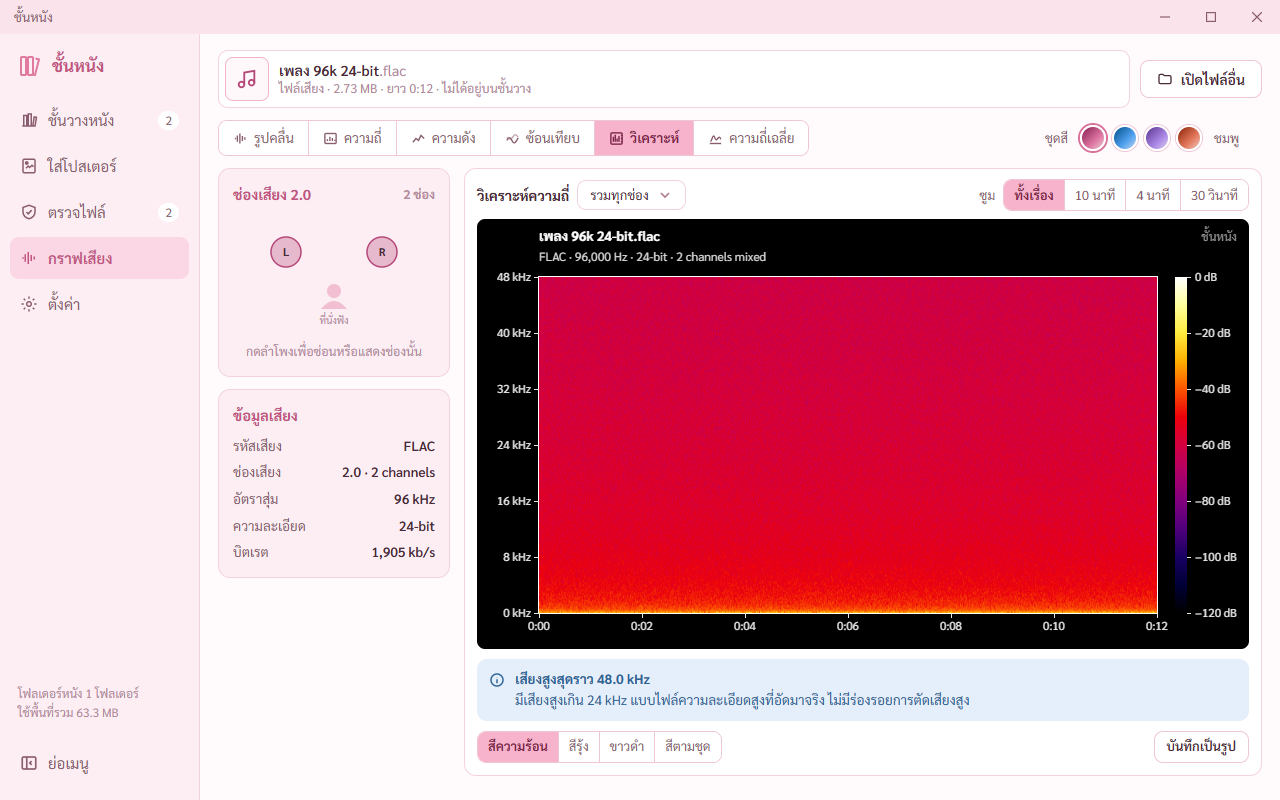
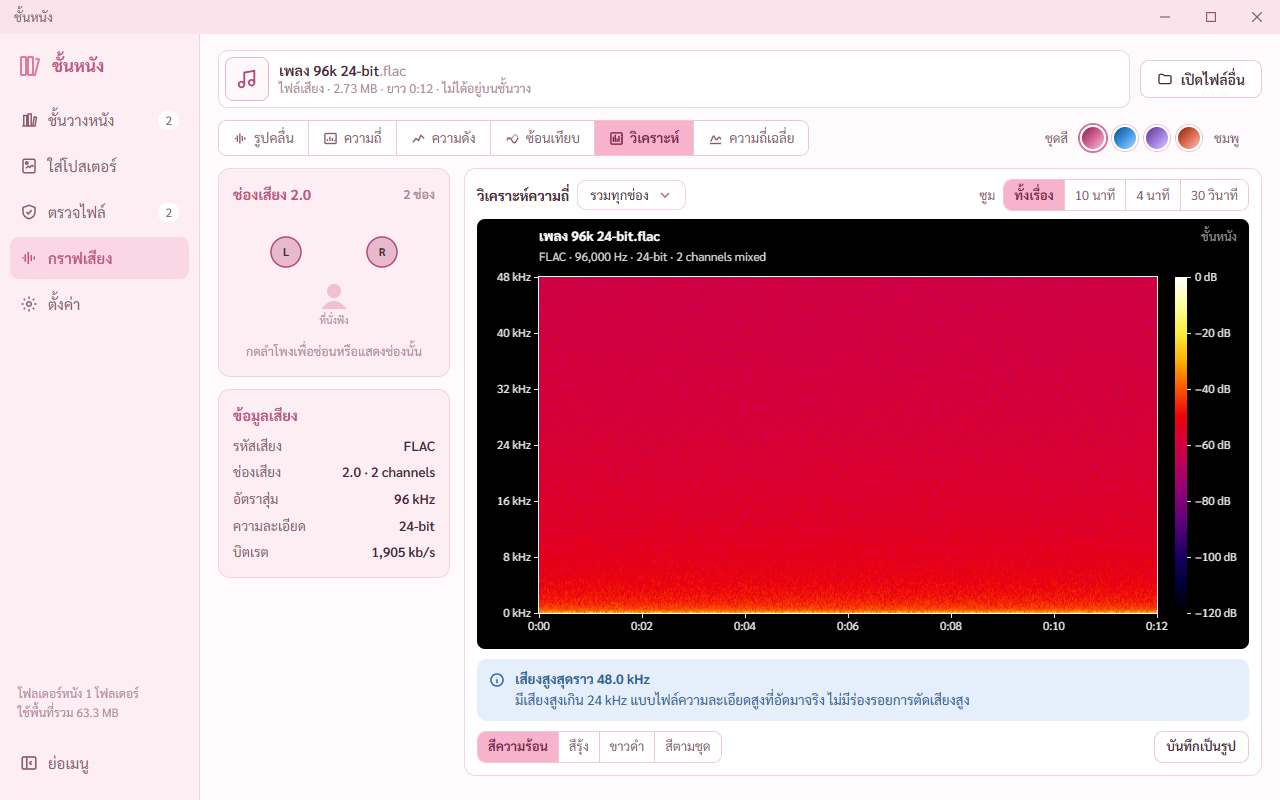
หน้ากราฟเสียง: เส้นตารางของความถี่เฉลี่ยทับบนพื้นสีแบบ Audacity เส้นที่พาดผ่านพื้นสีเป็นขาวโปร่ง อ่อนกว่าเส้นบนพื้นขาว
เป้าหมาย
--------
- พี่กันทักหลัง 831e951 *"ของ audacity เส้นตารางมันจะอยู่หน้าสุดนะ เอางี้ใหม่ เอาเส้นตารางที่พาดผ่านสีจะอ่อนกว่าเส้นตารางพื้นหลังที่อยู่ฉากขาว"* พร้อมภาพกราฟความถี่เฉลี่ยของโปรแกรม
- ปัญหาที่พี่กันเห็น พื้นสีใต้เส้นกราฟทับเส้นตาราง ในพื้นสีมองไม่เห็นเส้นตารางเลย
- รอบนี้ไม่แตะ แบบอื่นของหน้ากราฟ · สีพื้น · ช่วง dB

ที่ทำ
----

[1] เส้นตารางทับพื้นสี — src/pages/GraphPage.tsx (+15 −5) PsdView
-----------------------------------------------------------------
เดิม       วาดเส้นตารางก่อน แล้วระบายพื้นสีทับ · ในพื้นสีไม่มีเส้นตาราง
ใหม่       เส้นตารางบนพื้นขาวคงเดิม (ชมพูเทา) · เส้นเดียวกันวาดซ้ำเฉพาะในพื้นสี เป็นขาวโปร่ง เส้นหลักความทึบ 0.34 เส้นตัวคั่น 0.18 อ่อนกว่าเส้นบนพื้นขาวตามที่พี่กันขอ
เหตุผล     แบบ Audacity ที่เส้นตารางอยู่หน้าสุด ปรับให้เข้ากับธีม
รายละเอียด - ตอนวาดเส้นตาราง จดทุกเส้นลงรายการ gl (ตำแหน่งกับเป็นเส้นหลักไหม)
           - พื้นสีเก็บเป็น Path2D ตัวเดียว ใช้ทั้งระบายและเป็นขอบตัด (clip) ตอนวาดเส้นซ้ำ เส้นขาวจึงอยู่แค่ในพื้นสี ไม่ล้นไปพื้นขาว
           - ปิดสวิตช์เส้นตาราง ไม่วาดทั้งสองชั้น
           - เทียบซ้ายขวา (เส้นสองสี ไม่มีพื้น) ไม่เปลี่ยน
ตรวจ       ภาพ 32 เพลงจริง เห็นเส้นขาวโปร่งในพื้นสีครบทุกเส้น · ตัวเทสหน้ากราฟ 46 จาก 46

บั๊กที่แก้
--------
[B1] เส้นตารางหายในพื้นสีของกราฟความถี่เฉลี่ย
อาการ      ช่วงที่มีพื้นสี (ใต้เส้นกราฟ) ไม่มีเส้นตาราง อ่านค่าตรงนั้นยาก ต่างจาก Audacity
ต้นเหตุ    ลำดับการวาด เส้นตารางวาดก่อน พื้นสีทึบวาดทับ (831e951)
วิธีแก้    ข้อ [1]
[…]

Changed region(s): [[0.5312, 0.75, 0.9062, 0.7812], [0.4375, 0.75, 0.5, 0.7812]]

diff --git a/src/pages/GraphPage.tsx b/src/pages/GraphPage.tsx
@@ -924,15 +924,18 @@ function PsdView({ psd, names, psdCh, setPsdCh, psdLog, setPsdLog, psdSize, setP
     const ink = "#4a2b38", minor = "#efdde5", major = "#dcc0cc";
     // เส้นตารางแนวนอนทุก 6 dB (ถี่เกินไปเป็นทุก 12) · ตัวเลขทุกเส้น
     const step = PH * 6 / range >= 16 ? 6 : 12;
+    /** เส้นตารางทุกเส้น จดไว้วาดซ้ำทับพื้นสีด้วยสีขาวโปร่ง แบบ Audacity ที่เส้นตารางอยู่หน้าสุด
+        (พี่กัน *"ของ audacity เส้นตารางมันจะอยู่หน้าสุดนะ … เอาเส้นตารางที่พาดผ่านสีจะอ่อนกว่าเส้นตารางพื้นหลังที่อยู่ฉากขาว"*) */
+    const gl: [number, number, number, number, boolean][] = [];
     g.font = "600 11px Sarabun, sans-serif"; g.textAlign = "right"; g.textBaseline = "middle";
     for (let d = top; d >= lo - 0.01; d -= step) {
       const y = Math.round(Y(d)) + 0.5;
-      if (grids) { g.strokeStyle = major; g.lineWidth = 1; g.beginPath(); g.moveTo(L, y); g.lineTo(L + PW, y); g.stroke(); }
+      if (grids) { gl.push([L, y, L + PW, y, true]); g.strokeStyle = major; g.lineWidth = 1; g.beginPath(); g.moveTo(L, y); g.lineTo(L + PW, y); g.stroke(); }
       g.fillStyle = ink; g.fillText(minus(String(d)) + " dB", L - 6, y);
     }
     // เส้นตารางแนวตั้ง · แบบล็อก ทุก 1–9 × 10ⁿ (หลักเข้ม ตัวคั่นจาง) · แบบเส้นตรง ทุก 1 kHz
     g.textAlign = "center"; g.textBaseline = "top"; g.font = "600 11px Sarabun, sans-serif";
-    const vline = (fr: number, strong: boolean) => { if (!grids) return; const x = Math.round(X(fr, w)) + 0.5; g.strokeStyle = strong ? major : minor; g.beginPath(); g.moveTo(x, T); g.lineTo(x, T + PH); g.stroke(); };
+    const vline = (fr: number, strong: boolean) => { if (!grids) return; const x = Math.round(X(fr, w)) + 0.5; gl.push([x, T, x, T + PH, strong]); g.strokeStyle = strong ? major : minor; g.beginPath(); g.moveTo(x, T); g.lineTo(x, T + PH); g.stroke(); };
     const hz = (fr: number) => (fr >= 1000 ? `${fr / 1000} kHz` : `${fr} Hz`);
     if (psdLog) {
       for (let dec = 10; dec <= nyq; dec *= 10) for (let m = 1; m <= 9; m++) { const fr = m * dec; if (fr >= 20 && fr <= nyq) vline(fr, m === 1); }
@@ -951,9 +954,16 @@ function PsdView({ psd, names, psdCh, setPsdCh, psdLog, setPsdLog, psdSize, setP
     else if (series.length === 1) {
       // ระบายทึบสีเดียวจากเส้นลงถึงพื้นกราฟ แบบ Audacity · สีกลางของชุดสี (ชุดม่วงใกล้สีของ Audacity)
       // ค่าทีละจุดภาพ (valRange) ไม่ใช่ทีละช่องความถี่
-      const s = series[0]; g.fillStyle = th.ramp[4]; g.beginPath(); g.moveTo(L, T + PH);
-      for (let x = 0; x < PW; x++) g.lineTo(L + x + 0.5, Y(valRange(s.d, fAt(x, PW), fAt(x + 1, PW))));
-      g.lineTo(L + PW, T + PH); g.closePath(); g.fill();
+      const s = series[0], area = new Path2D(); area.moveTo(L, T + PH);
+      for (let x = 0; x < PW; x++) area.lineTo(L + x + 0.5, Y(valRange(s.d, fAt(x, PW), fAt(x + 1, PW))));
+      area.lineTo(L + PW, T + PH); area.closePath();
+      g.fillStyle = th.ramp[4]; g.fill(area);
+      // เส้นตารางเส้นเดิมวาดซ้ำเฉพาะในพื้นสี ขาวโปร่ง อ่อนกว่าเส้นบนพื้นขาว
+      if (grids) {
+        g.save(); g.clip(area); g.lineWidth = 1;
+        for (const [x1, y1, x2, y2, strong] of gl) { g.strokeStyle = strong ? "rgba(255,255,255,.34)" : "rgba(255,255,255,.18)"; g.beginPath(); g.moveTo(x1, y1); g.lineTo(x2, y2); g.stroke(); }
+        g.restore();
+      }
     } else {
       // เทียบซ้ายขวา (ของเราเพิ่มเอง Audacity ไม่มี) เป็นเส้นสองสีตามช่อง
       for (const s of series) {
